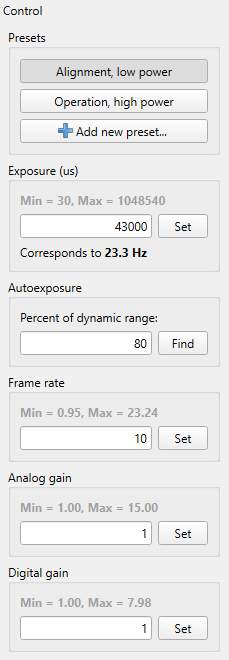
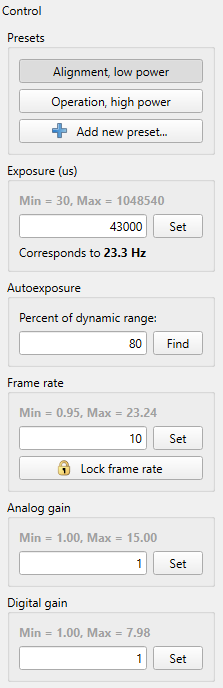
Add FPS locking (#30)

diff --git a/src/cameras/IdsHardConfig.cpp b/src/cameras/IdsHardConfig.cpp
@@ -63,6 +63,7 @@ bool theSame(const AnyRecord &p1, const AnyRecord &p2)
     label->setForegroundRole(qApp->styleHints()->colorScheme() == Qt::ColorScheme::Dark ? QPalette::Light : QPalette::Mid); \
     auto edit = new CamPropEdit; \
     edit->scrolled = [this](bool wheel, bool inc, bool big){ set##Prop##Fast(wheel, inc, big); }; \
+    edit->connect(edit, &ValueEdit::focused, edit, [this](bool focus){ if (!focus) show##Prop(); }); \
     edit->connect(edit, &ValueEdit::keyPressed, edit, [this](int key){ \
         if (key == Qt::Key_Return || key == Qt::Key_Enter) set##Prop(); }); \
     auto btn = new QPushButton(tr("Set")); \
@@ -162,9 +163,20 @@ bool theSame(const AnyRecord &p1, const AnyRecord &p2)
             return false; \
         } \
         /*qDebug() << "setPropRaw" << #Prop << v;*/ \
-        if (ed##Prop == edFps || ed##Prop == edExp) { \
+        if (ed##Prop == edFps) { \
             showExp(); \
             showFps(); \
+            if (fpsLock > 0) { \
+                fpsLock = v; \
+                showFpsLock(); \
+            } \
+        } else if (ed##Prop == edExp) { \
+            showExp(); \
+            showFps(); \
+            if (fpsLock > 0) { \
+                showFpsLock(); \
+                setFpsRaw(fpsLock, false); \
+            } \
         } else show##Prop(); \
         return true; \
     } \
@@ -191,9 +203,20 @@ bool theSame(const AnyRecord &p1, const AnyRecord &p2)
         auto res = setProp(hCam, newVal); \
         if (PEAK_ERROR(res)) \
             Ori::Dlg::error(IDS.getPeakError(res)); \
-        if (ed##Prop == edFps || ed##Prop == edExp) { \
+        if (ed##Prop == edFps) { \
             showExp(); \
             showFps(); \
+            if (fpsLock > 0) { \
+                fpsLock = newVal; \
+                showFpsLock(); \
+            } \
+        } else if (ed##Prop == edExp) { \
+            showExp(); \
+            showFps(); \
+            if (fpsLock > 0) { \
+                showFpsLock(); \
+                setFpsRaw(fpsLock, false); \
+            } \
         } else show##Prop(); \
     }
 
@@ -287,6 +310,12 @@ public:
         }
 
         PROP_CONTROL(Fps, tr("Frame rate"));
+
+        butFpsLock = new QPushButton(tr("Lock frame rate"));
+        butFpsLock->setCheckable(true);
+        connect(butFpsLock, &QPushButton::clicked, this, &IdsHardConfigPanelImpl::toggleFpsLock);
+        groupFps->layout()->addWidget(butFpsLock);
+
         PROP_CONTROL(AnalogGain, tr("Analog gain"))
         PROP_CONTROL(DigitalGain, tr("Digital gain"))
 
@@ -335,6 +364,9 @@ public:
         if (level == 0) level = 80;
         edAutoExp->setValue(level);
 
+        fpsLock = getCamProp(IdsHardConfigPanel::FPS_LOCK).toDouble();
+        showFpsLock();
+
         bulkSetProps = false;
     }
 
@@ -365,7 +397,14 @@ public:
         autoExp->targetLevel = level / 100.0;
         autoExp->subStepMax = qMax(1, getCamProp(IdsHardConfigPanel::AUTOEXP_FRAMES_AVG).toInt());
         autoExp->getLevel = [this]{ watingBrightness = true; requestBrightness(this); };
-        autoExp->showExpFps = [this](double exp, double fps){ edExp->setValue(exp); edFps->setValue(fps); };
+        autoExp->showExpFps = [this](double exp, double fps){
+            props["Exp"] = exp;
+            props["Fps"] = fps;
+            edExp->setValue(exp);
+            edFps->setValue(fps);
+            if (fpsLock > 0)
+                showFpsLock();
+        };
         autoExp->finished = [this]{ stopAutoExp(); };
 
         for (auto group : groups)
@@ -712,7 +751,7 @@ public:
             for (auto a : actions) a->setData(i);
             b->addActions(actions);
         }
-        auto b = new QPushButton(tr("Add new preset..."));
+        auto b = new QPushButton(tr(" Add new preset..."));
         b->setIcon(QIcon(":/toolbar/plus"));
         connect(b, &QPushButton::clicked, this, &IdsHardConfigPanelImpl::saveNewPreset);
         groupPresets->layout()->addWidget(b);
@@ -856,6 +895,25 @@ public:
         }
     };
 
+    void showFpsLock()
+    {
+        bool locked = fpsLock > 0;
+        bool lockOk = (int)qRound(fpsLock * 100) == (int)qRound(props["Fps"] * 100);
+        butFpsLock->setChecked(locked);
+        butFpsLock->setText(locked ? tr(" Target: %1 FPS").arg(fpsLock) : tr(" Lock frame rate"));
+        butFpsLock->setIcon(QIcon(!locked ? ":/toolbar/lock_on" : (lockOk ? ":/toolbar/ok" : ":/toolbar/exclame")));
+        if (locked && !lockOk)
+            butFpsLock->setToolTip(tr("Target value is out of available range"));
+        else butFpsLock->setToolTip({});
+    }
+
+    void toggleFpsLock(bool checked)
+    {
+        fpsLock = checked ? props["Fps"] : 0;
+        setCamProp(IdsHardConfigPanel::FPS_LOCK, fpsLock);
+        showFpsLock();
+    }
+
     peak_camera_handle hCam;
     QList<QGroupBox*> groups;
     CamPropEdit *edAutoExp;
@@ -873,6 +931,8 @@ public:
     bool bulkSetProps = false;
     bool roundFps = true;
     bool roundExp = true;
+    double fpsLock = 0;
+    QPushButton *butFpsLock;
     std::function<void(QObject*)> requestBrightness;
     std::function<QVariant(IdsHardConfigPanel::CamProp)> getCamProp;
     std::function<void(IdsHardConfigPanel::CamProp, QVariant)> setCamProp;

diff --git a/src/cameras/IdsCamera.cpp b/src/cameras/IdsCamera.cpp
@@ -674,6 +674,8 @@ HardConfigPanel* IdsCamera::hardConfgPanel(QWidget *parent)
                 return _cfg->autoExpFramesAvg;
             case IdsHardConfigPanel::EXP_PRESETS:
                 return QVariant::fromValue(&_cfg->expPresets);
+            case IdsHardConfigPanel::FPS_LOCK:
+                return _cfg->fpsLock;
             }
             return {};
         };
@@ -688,6 +690,10 @@ HardConfigPanel* IdsCamera::hardConfgPanel(QWidget *parent)
                 break;
             case IdsHardConfigPanel::EXP_PRESETS:
                 // Presets already updated in the panel via pointer
+                saveConfig(true);
+                break;
+            case IdsHardConfigPanel::FPS_LOCK:
+                _cfg->fpsLock = value.toDouble();
                 saveConfig(true);
                 break;
             }

diff --git a/src/cameras/IdsCameraConfig.cpp b/src/cameras/IdsCameraConfig.cpp
@@ -164,6 +164,7 @@ void IdsCameraConfig::save(QSettings *s)
     s->setValue("saveBrightness", saveBrightness);
     s->setValue("autoExpLevel", autoExpLevel);
     s->setValue("autoExpFramesAvg", autoExpFramesAvg);
+    s->setValue("fpsLock", fpsLock);
 
     hasPowerWarning = oldBpp != bpp ||
         oldBinning.x != binning.x || oldBinning.y != binning.y ||
@@ -192,6 +193,7 @@ void IdsCameraConfig::load(QSettings *s)
     saveBrightness = s->value("saveBrightness", false).toBool();
     autoExpLevel = s->value("autoExpLevel").toInt();
     autoExpFramesAvg = s->value("autoExpFramesAvg", 4).toInt();
+    fpsLock = s->value("fpsLock", 0).toDouble();
 
     AnyRecords presets;
     int size = s->beginReadArray("exp_presets");

diff --git a/src/cameras/IdsHardConfig.h b/src/cameras/IdsHardConfig.h
@@ -9,7 +9,7 @@
 class IdsHardConfigPanel : public HardConfigPanel
 {
 public:
-    enum CamProp { AUTOEXP_LEVEL, AUTOEXP_FRAMES_AVG, EXP_PRESETS };
+    enum CamProp { AUTOEXP_LEVEL, AUTOEXP_FRAMES_AVG, EXP_PRESETS, FPS_LOCK };
 
     IdsHardConfigPanel(peak_camera_handle hCam,
         std::function<void(QObject*)> requestBrightness,

diff --git a/src/cameras/IdsCameraConfig.h b/src/cameras/IdsCameraConfig.h
@@ -51,6 +51,7 @@ public:
     int autoExpFramesAvg = 4;
     bool hasPowerWarning = false;
     AnyRecords expPresets;
+    double fpsLock = 0;
 
     void initDlg(peak_camera_handle hCam, Ori::Dlg::ConfigDlgOpts &opts, int maxPageId);
     void save(QSettings *s);

diff --git a/bin/help/cam_control.md b/bin/help/cam_control.md
@@ -24,9 +24,13 @@ See details about properties in the official documentation:
 
 ### Exposure presets
 
+![Exposure presets](./img/cam_control_exp_presets.png)
+
 It's possible to save a set of exposure settings for a given camera as a [preset](./exp_presets.md). Presets are listed as buttons at the top of the control panel and can be managed via the context menu.
 
 ### Autoexposure
+
+![Autoexposure](./img/cam_control_autoexp.png)
 
 Not every camera model supports the auto exposure feature. So the application implements a simple software algorithm for finding an exposure value giving desired beam spot [brightness](./brightness.md).
 
@@ -37,6 +41,16 @@ In practice, the calculated brightness slightly differs from frame to frame. Her
 ![Brightness](./img/brightness_1.png)
 
 To deal with the issue, the algorithm takes several frames for each exposure value and averages brightness over them. The number of frames for averaging can be set in the [Camera settings](./cam_settings_opts.md#autoexposure) dialog.
+
+### Frame rate locking
+
+![FPS lock](./img/cam_control_fps_lock.png)
+
+When changing the exposure either manually or during autoexposure, the frame rate can change as well and can go to very small values, when the exposure gets too long. Then, when the exposure is changed back to short values, the frame rate remains low, and it's required to change it back to high values manually, which is inconvenient.
+
+The “Lock frame rate” button allows remembering the current frame rate and using it as some target value. When the exposure changes, the application always tries to set this target frame rate for the camera. This way, the frame rate is always kept at the desired value when it's allowed by the camera hardware. If it's not, the warning icon is displayed on the button.
+
+![FPS lock warning](./img/cam_control_fps_lock_warn.png)
 
 ## See also
 

diff --git a/bin/help/exp_presets.md b/bin/help/exp_presets.md
@@ -2,7 +2,7 @@
 
 It's possible to save a set of exposure settings for a given camera as a preset. Presets are listed as buttons at the top of the control panel. Autoexposure level is saved into a preset too, even though it's not a camera setting and doesn't affect the exposure directly.
 
-![Screenshot](./img/cam_control.png)
+![Exposure presets](./img/cam_control_exp_presets.png)
 
 Click a button to apply the preset. If currently selected settings, even being changed manually, match a preset, the button is highlighted to show that the preset is active. There are some issues with how IDS cameras apply settings; see [Camera control tweaks](./app_settings_opts.md#tweaks) for details.
 
